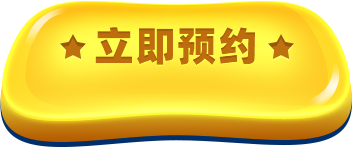
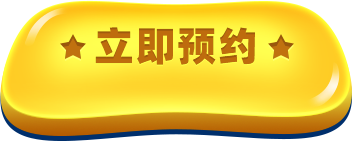
图片优化

diff --git a/src/pages/pc/guide/index.vue b/src/pages/pc/guide/index.vue
@@ -655,8 +655,8 @@ export default {
     z-index: 1;
     width: 100%;
     height: 961 * @vw;
-    background: url('~assets/images/pc/guide/bg_city.png') bottom center no-repeat;
-    background-size: cover;
+    background: url('~assets/images/pc/guide/bg_city.png') center bottom no-repeat;
+    background-size: contain;
     .header {
       position: relative;
       z-index: 2;
@@ -904,7 +904,7 @@ export default {
     z-index: 2;
     width: 100%;
     height: 3646 * @vw;
-    background: url('~assets/images/pc/guide/bg_active.png') top center no-repeat;
+    background: url('/images/guide/bg_active.png') top center no-repeat;
     background-size: cover;
     margin-top: -423 * @vw;
     padding-top: 230 * @vw;
@@ -941,13 +941,16 @@ export default {
       .book-btn {
         width: 352 * @vw;
         height: 147 * @vw;
-        background: url('~assets/images/pc/guide/btn_book_big_normal.png') no-repeat;
+        background: url('~assets/images/pc/guide/btn_book_big_normal.png') center bottom no-repeat;
         background-size: contain;
         z-index: 2;
       }
       &:hover {
         .book-btn {
-          background-image: url('~assets/images/pc/guide/btn_book_big_click.png');
+          width: 352 * @vw;
+          height: 141 * @vw;
+          background: url('~assets/images/pc/guide/btn_book_big_click.png') center bottom no-repeat;
+          background-size: contain;
         }
       }
       .book-time {
@@ -1517,7 +1520,7 @@ export default {
   position: relative;
   width: 100%;
   height: 5259 * @vw;
-  background: url('~assets/images/pc/guide/bg_content.png') top center no-repeat;
+  background: url('/images/guide/bg_content.png') top center no-repeat;
   background-size: cover;
   z-index: 3;
   display: flex;
